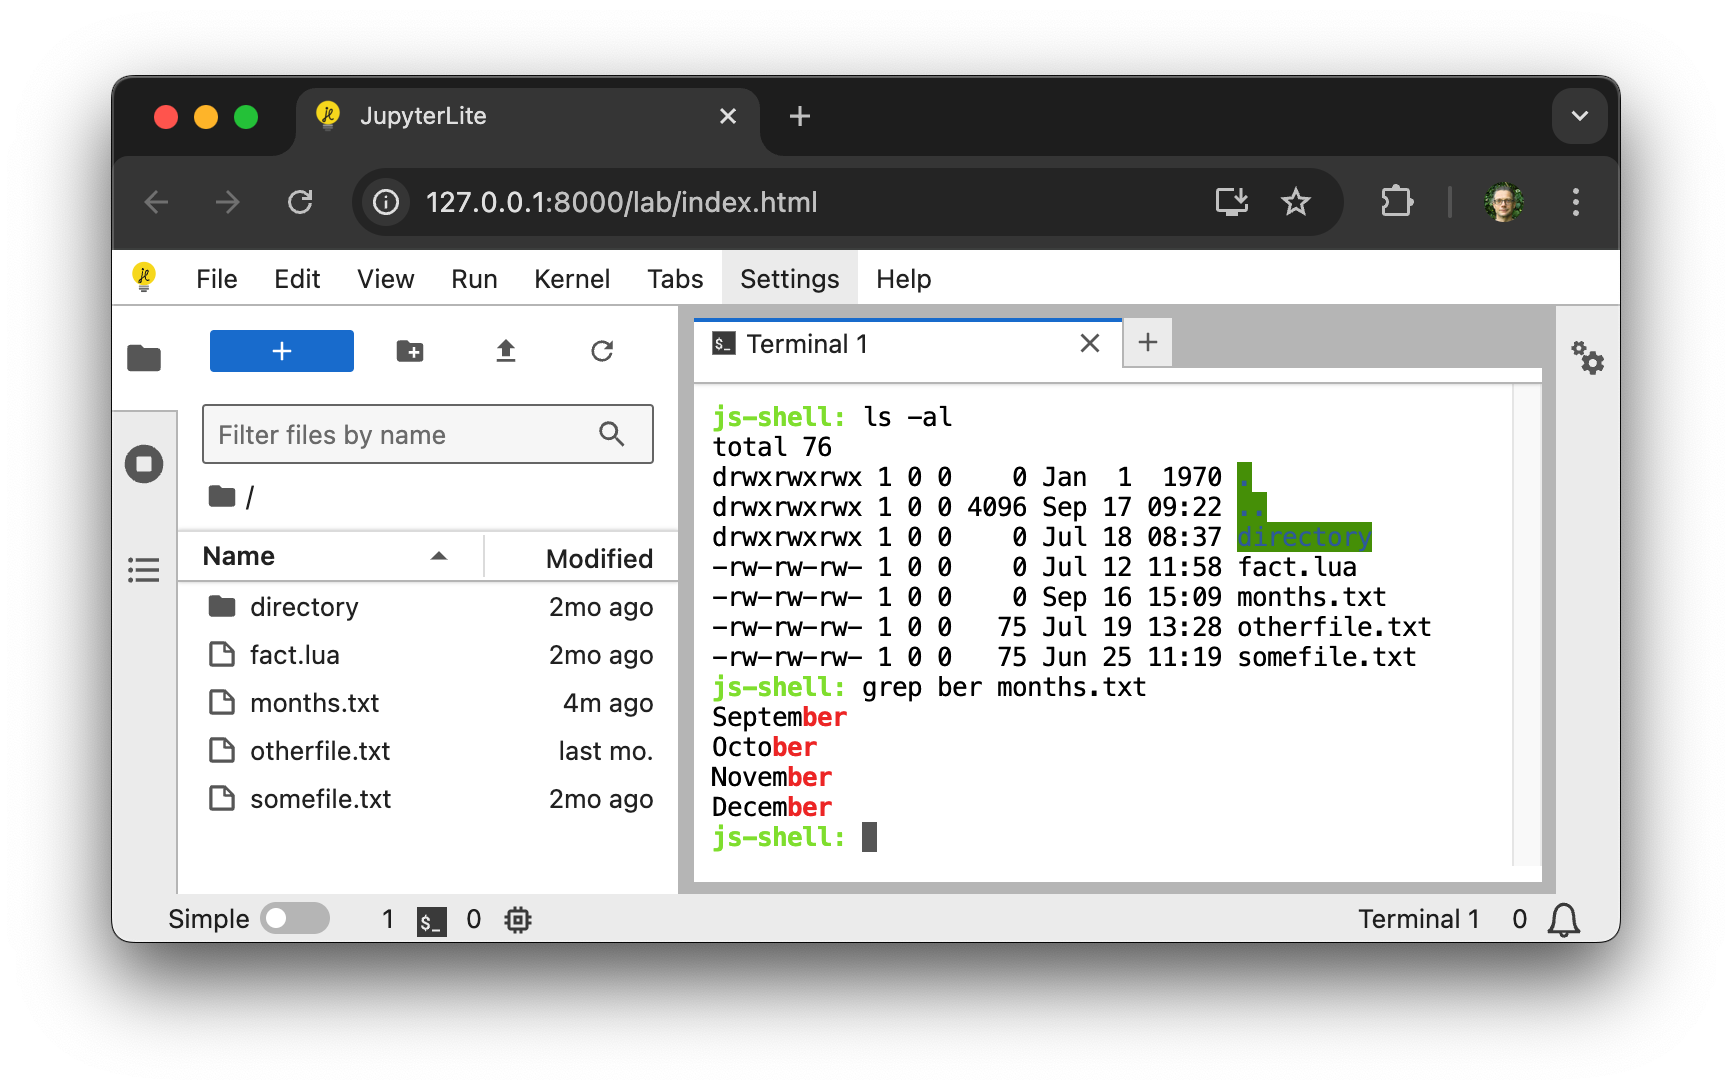
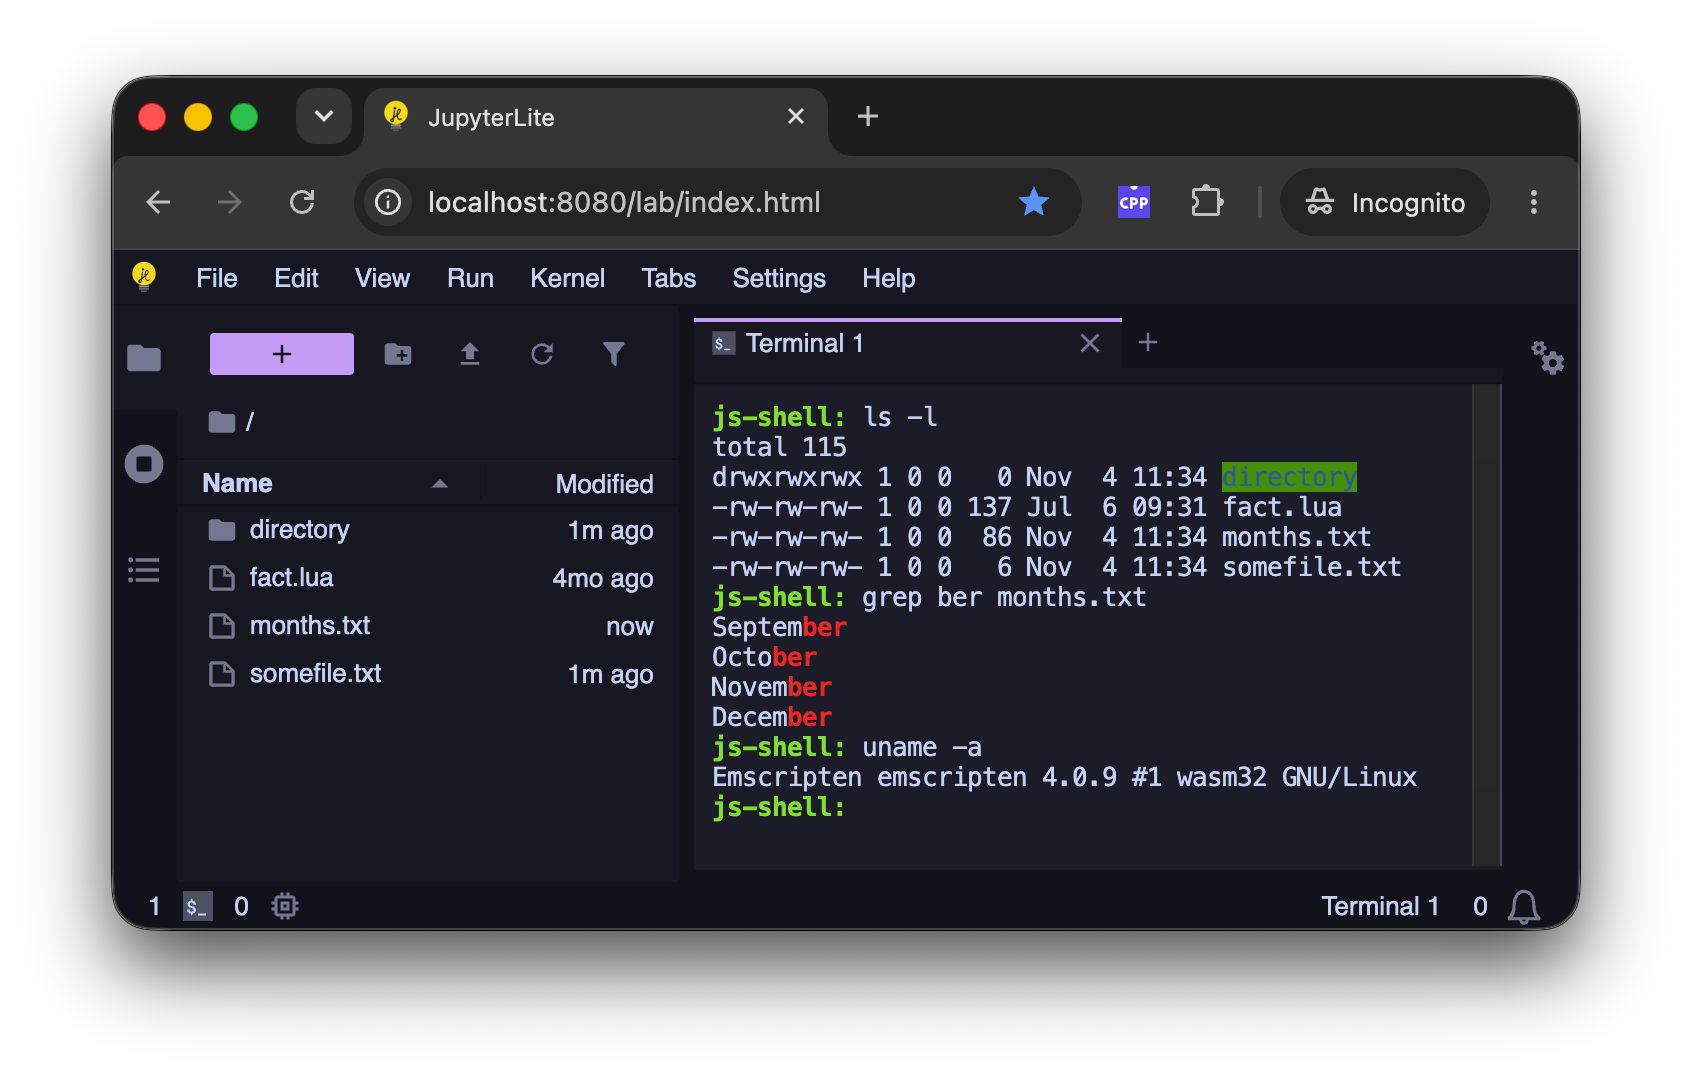
Add catppuccin theme to demo deployment (#139)
* Add catppuccin theme to demo deployment

* Fix exit code checks using latest coreutils

diff --git a/ui-tests/tests/utils/misc.ts b/ui-tests/tests/utils/misc.ts
@@ -56,5 +56,5 @@ export async function setStdinOption(page: Page, stdinOption: string) {
   await runCommand(page, `cockle-config stdin ${stdinOption}`);
   await runCommand(page, 'env|grep ? > exit.txt');
   const exitCode = await retrieveAndDeleteFile(page, 'exit.txt');
-  expect(exitCode[0]).toMatch('?=0');
+  expect(exitCode[0]).toMatch("'?'=0");
 }

diff --git a/README.md b/README.md
@@ -148,6 +148,7 @@ To build a JupyterLite distribution with the extension installed:
 
 ```bash
 cd deploy
+python -m pip install -r requirements-deploy.txt
 jupyter lite build --contents contents
 ```
 
